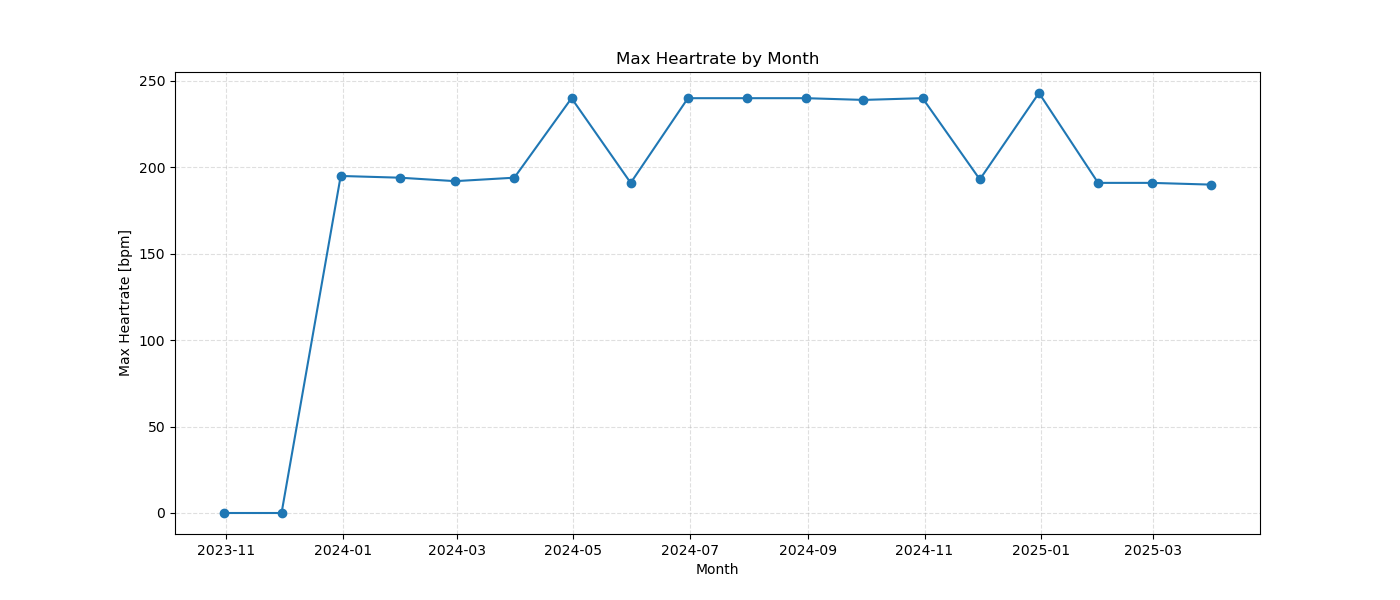
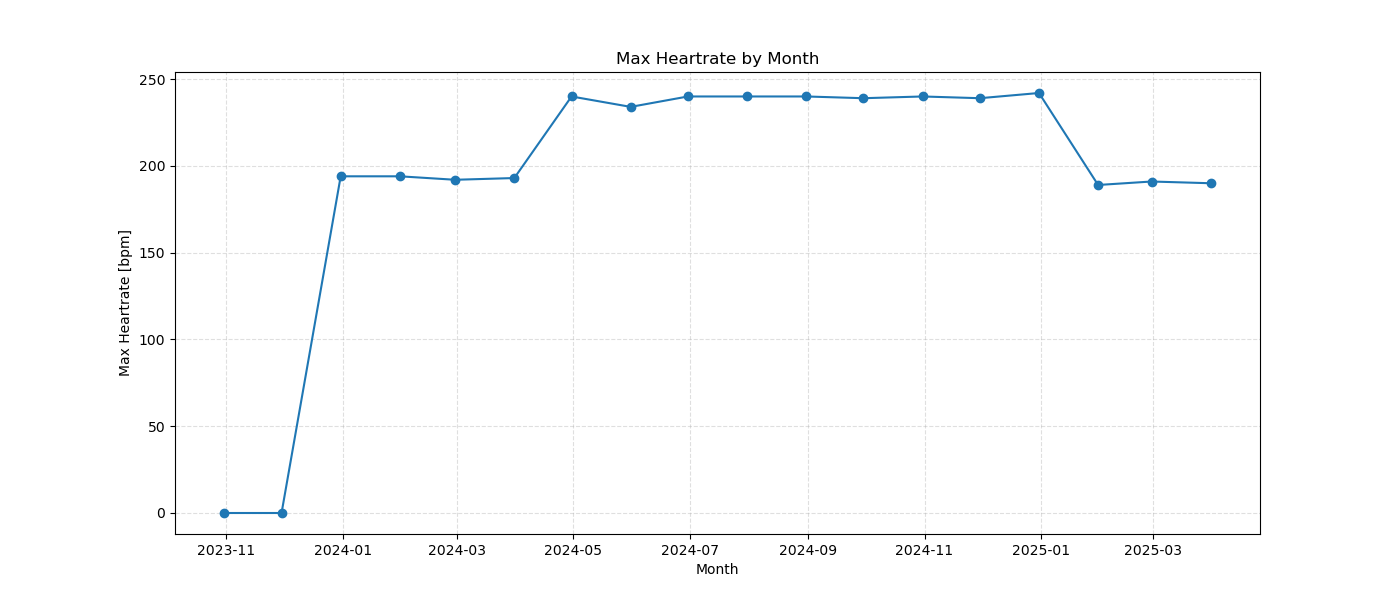
added zone ranges to HR zone graph

diff --git a/visualize.py b/visualize.py
@@ -24,17 +24,17 @@ colors = [
 
 def get_hr_zone(hr):
     if hr < 119 or pd.isna(hr):
-        return "Zone 0"
+        return "Zone 0 (0-118)"
     elif hr < 132:
-        return "Zone 1"
+        return "Zone 1 (119-131)"
     elif hr < 144:
-        return "Zone 2"
+        return "Zone 2 (132-143)"
     elif hr < 155:
-        return "Zone 3"
+        return "Zone 3 (133-154)"
     elif hr < 167:
-        return "Zone 4"
+        return "Zone 4 (155-166)"
     else:
-        return "Zone 5"
+        return "Zone 5 (167+)"
 
 
 def generate_monthly_distance(dataframe, path):
@@ -125,7 +125,7 @@ def generate_hr_zone_pie(dataframe, path):
         y='hr_percent',
         labels=df.index,
         autopct='%1.1f%%',
-        figsize=(5,5),
+        figsize=(7,7),
         ylabel="",
         legend=False,
     )
